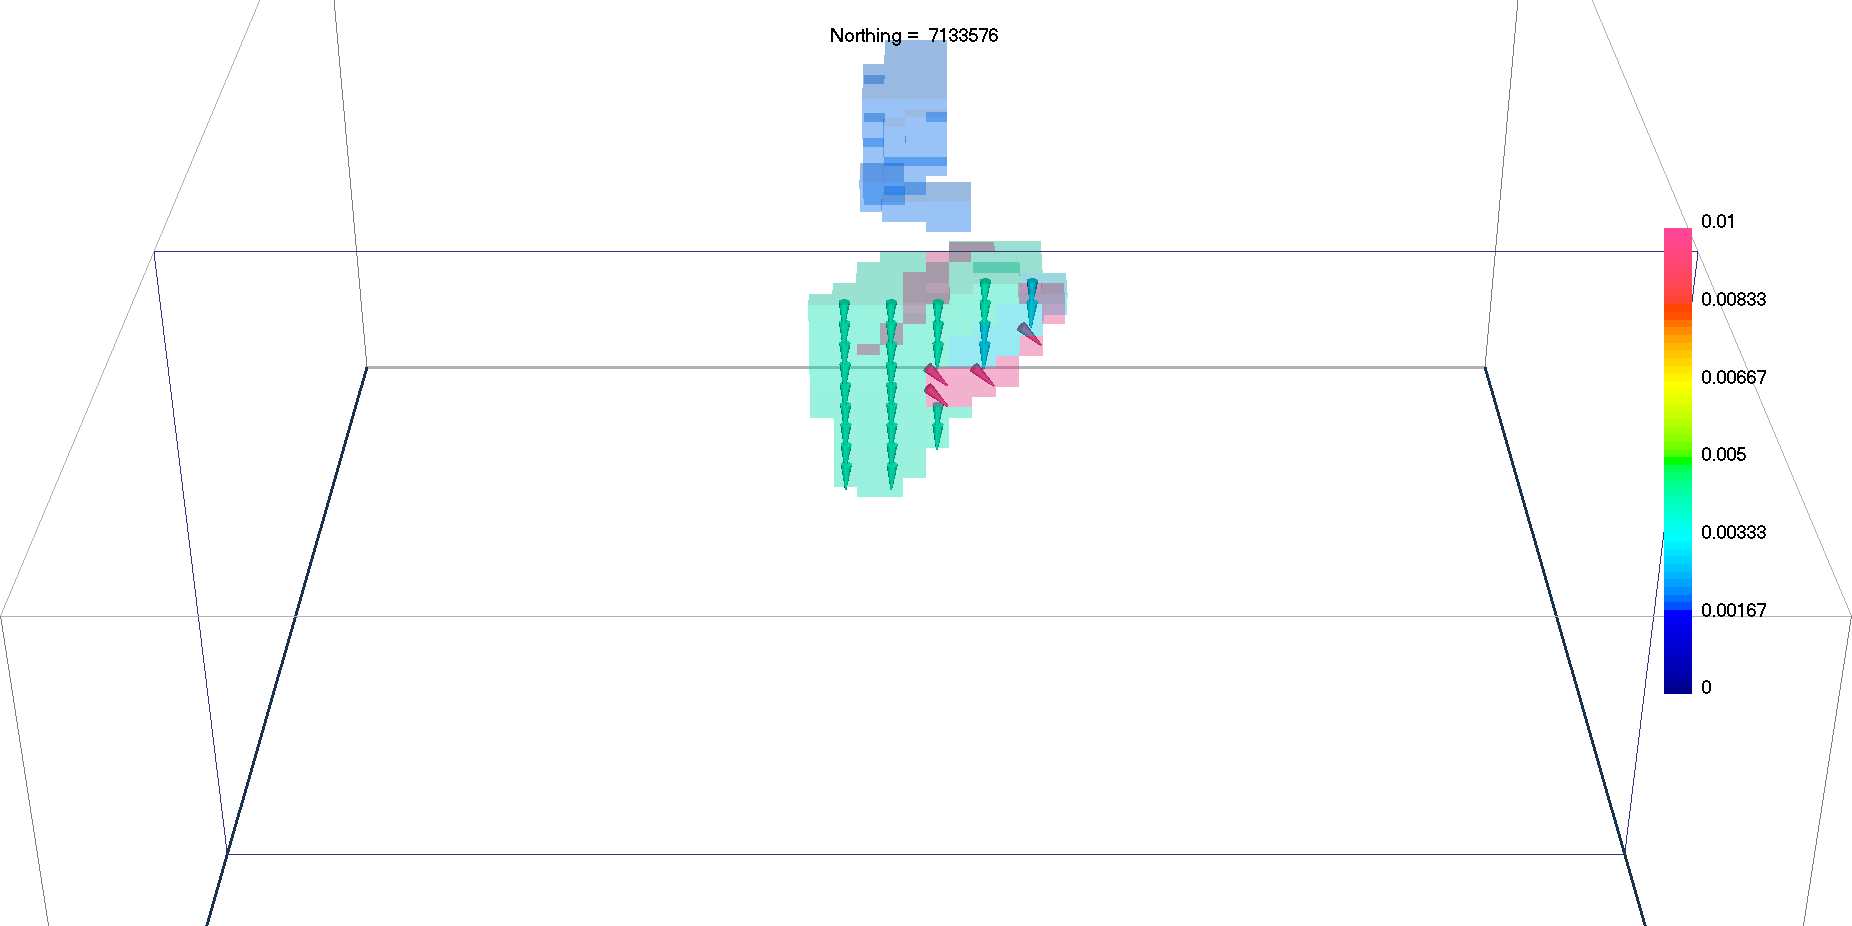
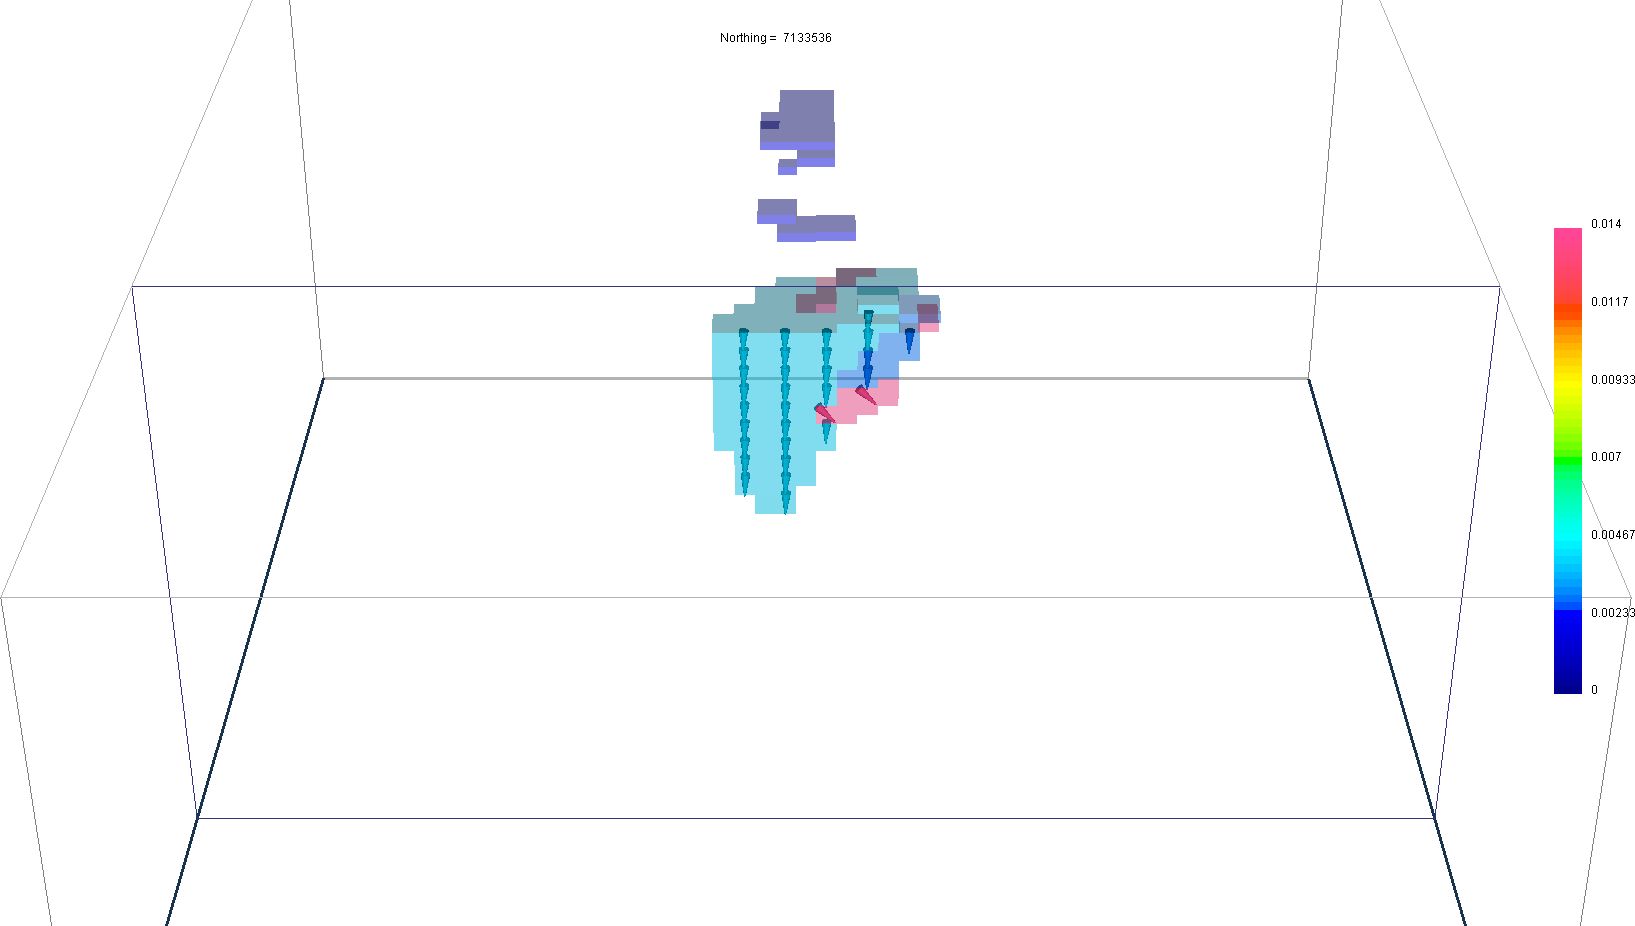
Update MVI pix

diff --git a/content/AtoZ/magnetic/AtoZ_Mag_Synthesis.html b/content/AtoZ/magnetic/AtoZ_Mag_Synthesis.html
@@ -31,7 +31,7 @@ function MM_initInteractions(){}
 //-->
   </script><!-- InstanceEndEditable -->
 
-      <table bgcolor="#ffffff" border="1" cellpadding="0" cellspacing="1">
+      <table bgcolor="#ffffff" border="0" cellpadding="0" cellspacing="1">
 
         <tbody>
 
@@ -39,10 +39,10 @@ function MM_initInteractions(){}
 
             <td valign="center">
             <form name="form1" method="post" action="">
-<!--               <p class="figureCaption">
+              <p class="figureCaption">
 
-                  <input type="radio" checked="checked"onclick="MM_swapImage('Mag_Susc_Inv','','./../../../_images/AtoZ_MagSusc.png',1)" name="radiobutton"  value="radiobutton" ></input>
-                  Magnetic susceptibility inversion<br> -->
+                  <input type="radio" checked="checked"onclick="MM_swapImage('Mag_Susc_Inv','','./../../../_images/AtoZ_Mag_True.png',1)" name="radiobutton"  value="radiobutton" ></input>
+                  True model<br>
 <!--               <p class="figureCaption">
                   <input  type="radio" onclick="MM_swapImage('Mag_Susc_Inv','','./../../../_images/AtoZ_Mag_invAmpCompact.png',1)" name="radiobutton"  value="radiobutton" ></input>
                   Magnetic amplitude inversion<br> -->
@@ -61,7 +61,7 @@ function MM_initInteractions(){}
 
               </form>
             </td>
-            <td valign="center"><font size="-1"><img src='./../../../_images/AtoZ_Mag_MVI_C.png' name="Mag_Susc_Inv"></font></div>
+            <td valign="center"><font size="-1"><img src='./../../../_images/AtoZ_Mag_True.png' name="Mag_Susc_Inv"></font></div>
 
           </tr>
 

diff --git a/content/AtoZ/magnetic/MVI.rst b/content/AtoZ/magnetic/MVI.rst
@@ -115,7 +115,29 @@ Step by step
 Synthesis
 ^^^^^^^^^
 
-We have recovered three magnetic vector models.
+We have recovered three magnetic vector models with the following features:
+
+- The MVI-C model was successful  in locating the the magnetic kimberlite
+  despite the presence of remanence. Due to the smoothness constraint, the
+  magnetization direction changes throughout the anomaly, making difficult to
+  distinguish a shape or overall trend.
+
+- The Cooperative MVI-C and compact amplitude model dis a better job in
+  imaging a compact body. The magnetization orientation resemble much closely
+  the true model inside the pipe. The horizontal position of the maximum
+  anomaly appears to be slightly shifted West of the true model. This is due
+  assumptions made in the amplitude inversion.
+
+- The sparse MVI-S inversion was arguably the most accurate in recovering both
+  the position and magnetization orientation. Sparsity on the amplitude forced
+  a compact anomaly, while blocky orientation angles allowed for rapid changes
+  in the magnetization direction.
+
 
  .. raw:: html
     :file: ./AtoZ_Mag_Synthesis.html
+
+
+.. figure:: ./../../../images/AtoZ_Mag/AtoZ_Mag_True.png
+            :align: center
+            :scale: 0%
